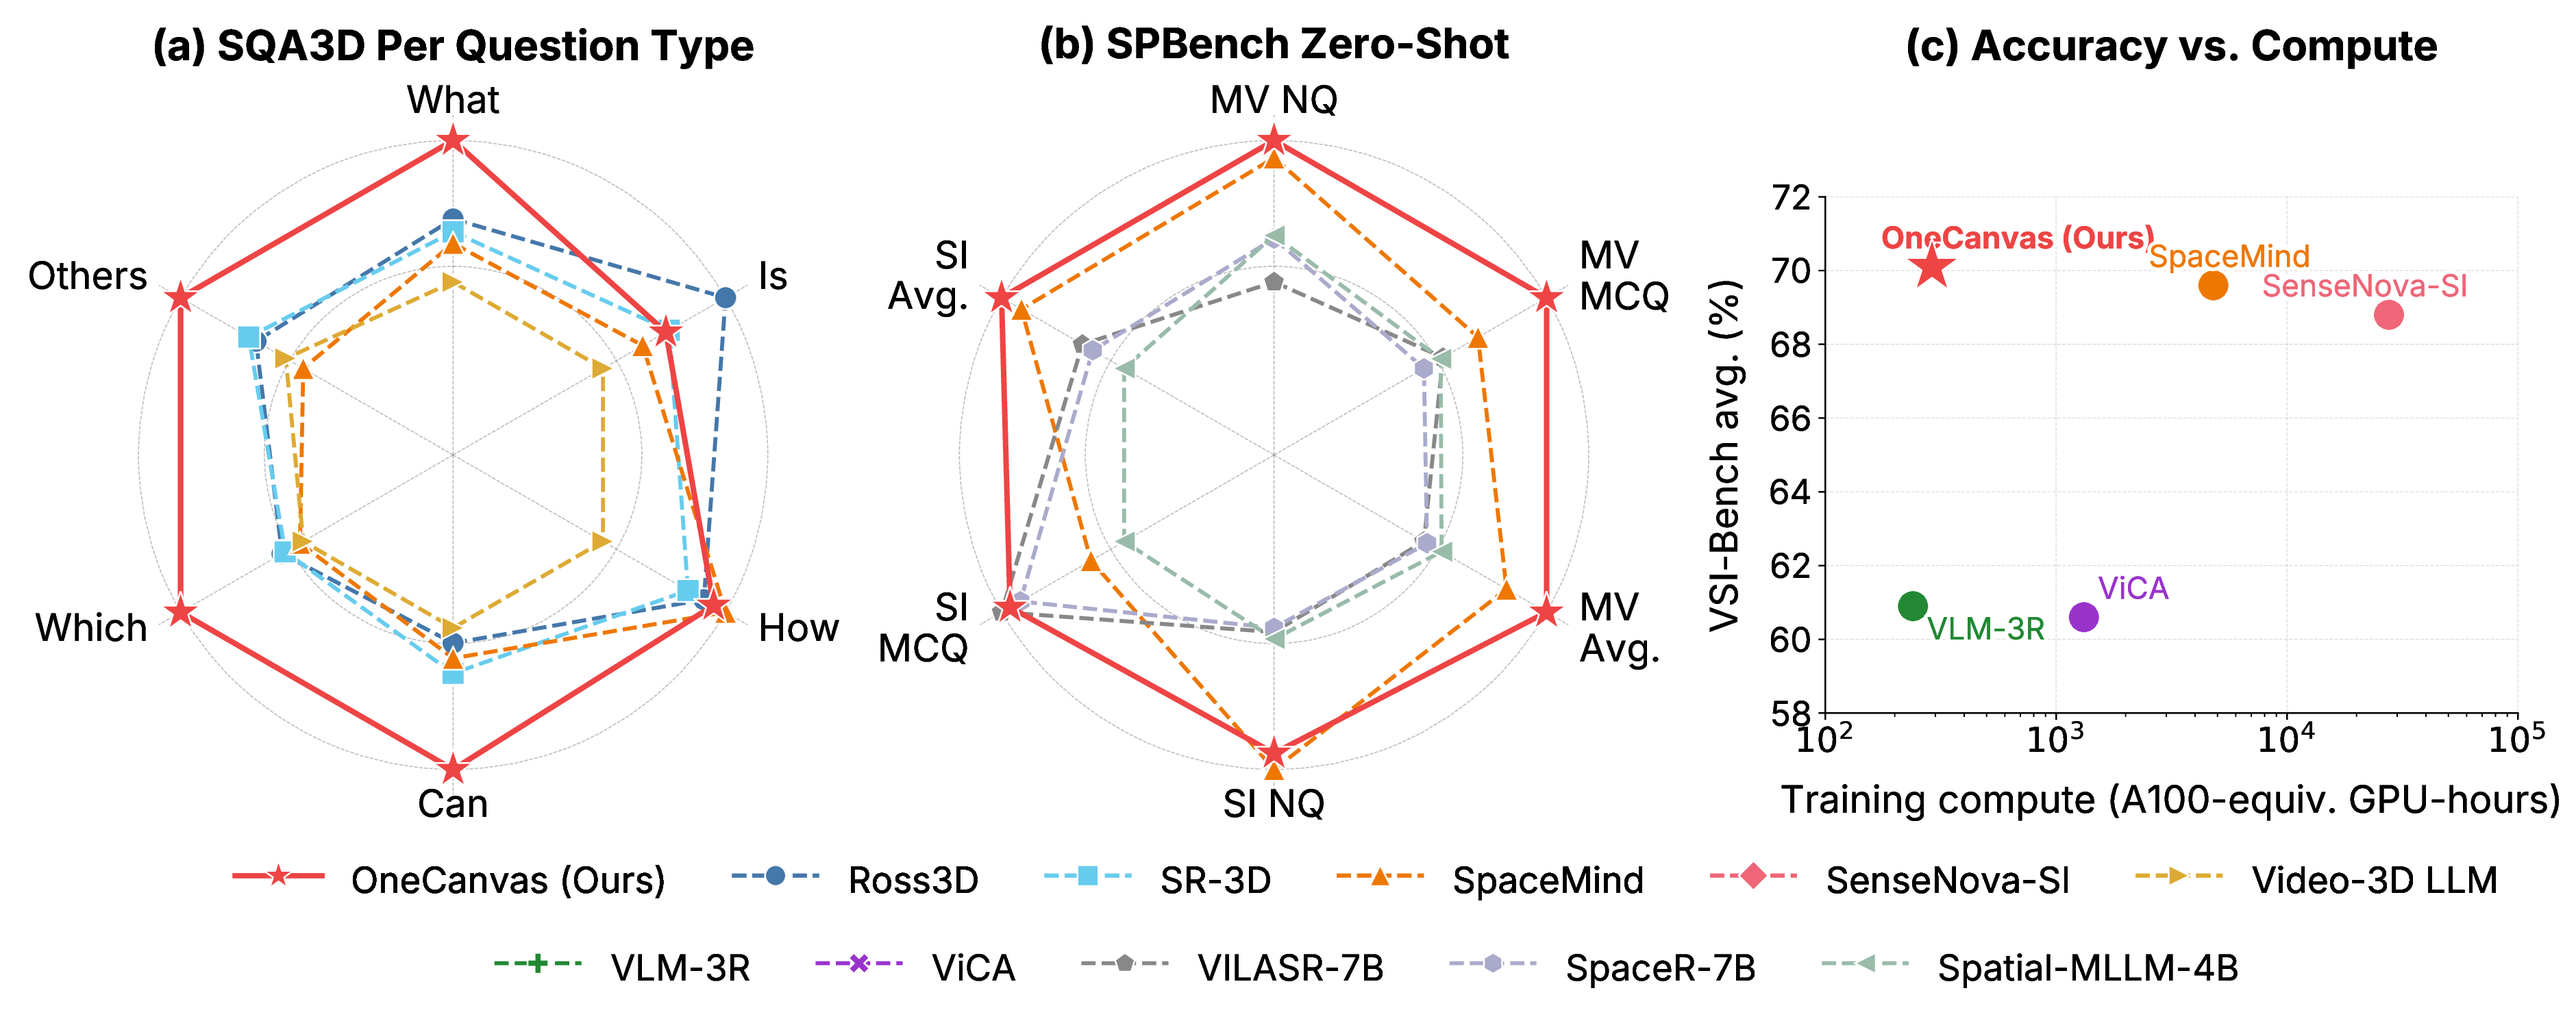
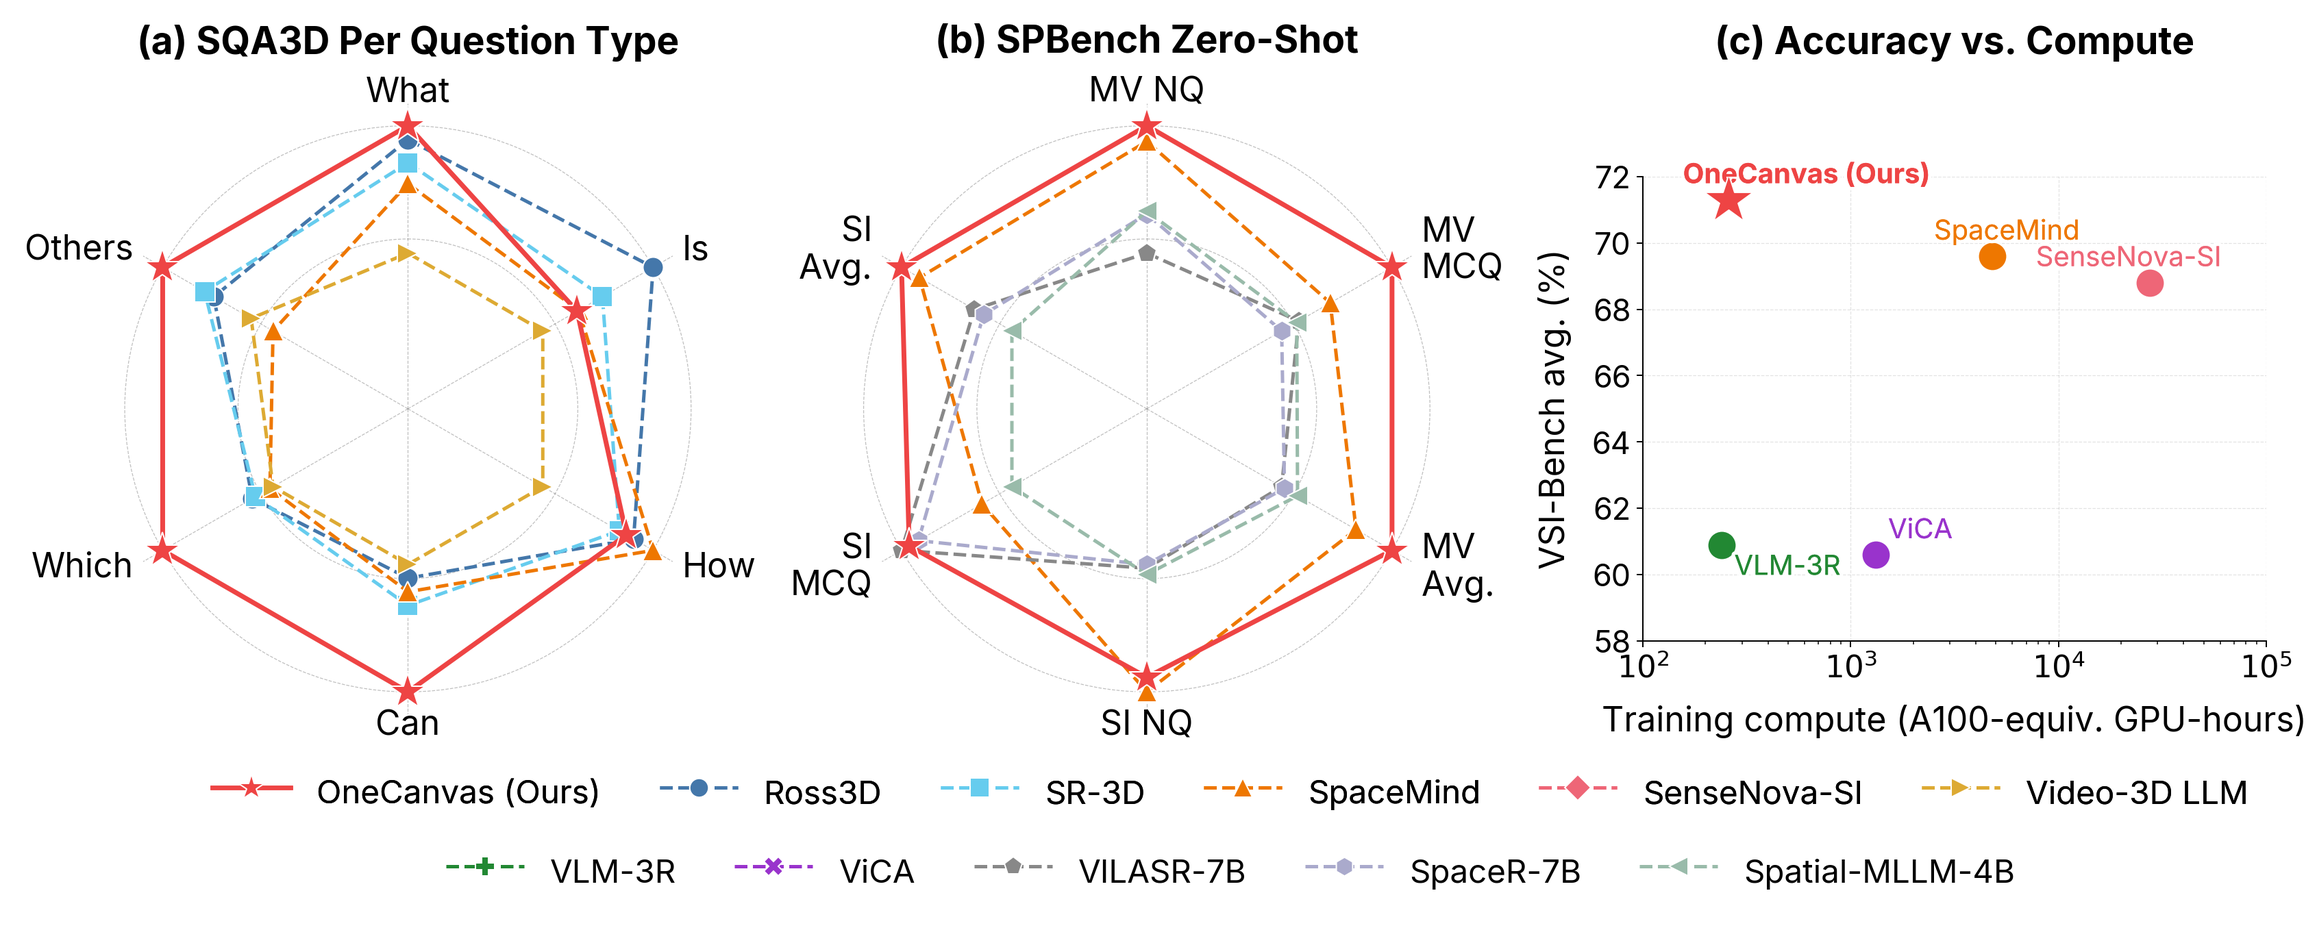
Corrected VSI-Bench numbers (ARKit gravity-upright input fix, 70.1 -> 71.3) and scoped compute claim

diff --git a/index.html b/index.html
@@ -336,7 +336,7 @@
           A 3D position embedding of the patch's metric coordinates is added to its feature, restoring the depth lost when collapsing the world position to an angular canvas coordinate. Patches from all frames thus share one spatial coordinate system with no fusion or major architectural modifications of the backbone. The pretrained VLM consumes this representation as if it were an ordinary image. Because the canvas can be centered on any pose of interest, the same representation directly supports situated reasoning from a specific viewpoint, a common requirement in robotics and embodied AI.
           </p>
           <p>
-          Thanks to this representation, we can also introduce a spatial pretraining curriculum: by procedurally placing patch features of objects, drawn from real images, at chosen 3D world positions on an otherwise empty canvas, we generate on-the-fly supervision spanning a broad range of spatial reasoning tasks, with answer distributions controlled to reduce spatial reasoning shortcuts. OneCanvas achieves state-of-the-art accuracy on SQA3D and VSI-Bench, and generalizes to out-of-distribution data on SPBench, using an order of magnitude less training compute than the strongest competing methods.
+          Thanks to this representation, we can also introduce a spatial pretraining curriculum: by procedurally placing patch features of objects, drawn from real images, at chosen 3D world positions on an otherwise empty canvas, we generate on-the-fly supervision spanning a broad range of spatial reasoning tasks, with answer distributions controlled to reduce spatial reasoning shortcuts. OneCanvas achieves state-of-the-art accuracy on SQA3D and VSI-Bench, and generalizes to out-of-distribution data on SPBench, using an order of magnitude less training compute than the strongest competing methods, SpaceMind and SenseNova-SI.
           </p>
         </div>
       </div>
@@ -460,7 +460,7 @@
         <img src="static/images/radar_comparison.png" class="center" style="width:80%;">
         <div class="content has-text-justified">
           <p style="margin-top: 30px">
-            <b style="color: var(--oc-gold-deep);">OneCanvas</b> reaches state of the art on three spatial reasoning benchmarks: <b>SQA3D</b> (65.3 EM@1, 2.3 points above the previous best), <b>VSI-Bench</b> (70.1 average), and <b>SPBench</b> (72.1 zero-shot overall, 4.8 points above the next best method), while using an order of magnitude less training compute than the strongest competing methods.
+            <b style="color: var(--oc-gold-deep);">OneCanvas</b> reaches state of the art on three spatial reasoning benchmarks: <b>SQA3D</b> (65.3 EM@1, 2.3 points above the previous best), <b>VSI-Bench</b> (71.3 average), and <b>SPBench</b> (72.1 zero-shot overall, 4.8 points above the next best method), while using an order of magnitude less training compute than the strongest competing methods, SpaceMind and SenseNova-SI.
           </p>
         </div>
 
@@ -480,11 +480,11 @@
           <div class="column">
             <div class="box has-text-centered">
               <h3 class="title is-4">VSI-Bench</h3>
-              <p class="is-size-2 has-text-weight-bold">70.1</p>
+              <p class="is-size-2 has-text-weight-bold">71.3</p>
               <p class="has-text-grey">Average</p>
               <p style="margin-top: 8px;">
                 <span class="tag is-success is-light" style="font-weight: 600;">
-                  <i class="fas fa-arrow-up" style="margin-right: 4px;"></i>+11.3 on route planning
+                  <i class="fas fa-arrow-up" style="margin-right: 4px;"></i>+12.3 on route planning
                 </span>
               </p>
             </div>
